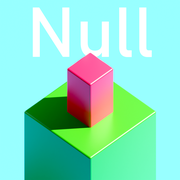
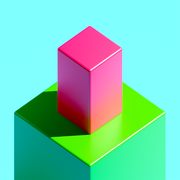
v1 of new endscreen and added new appicon

diff --git a/www/js/index.js b/www/js/index.js
@@ -1589,6 +1589,10 @@ const UserInterface = {
 
 
                 if (Tutorial.isActive) { // leaving tutorial level
+                    if (Tutorial.state >= 18) {
+                        btn_playTutorial.released(true) // toggle tutorial button to be false after completing it
+                    }
+
                     Tutorial.reset()
                 }
 
@@ -2081,6 +2085,27 @@ const UserInterface = {
         return minutes + ":" + extraSeconds;
     },
 
+    drawMedal: function(x, y, radius, fillColor, strokeColor, strokeWidth, shadow) {
+                        
+        canvasArea.ctx.fillStyle = fillColor
+        canvasArea.ctx.strokeStyle = strokeColor
+        canvasArea.ctx.lineWidth = strokeWidth
+        
+        canvasArea.ctx.beginPath()
+        canvasArea.ctx.arc(x, y, radius, 0, 2 * Math.PI); // (x, y, radius, startAngle, endAngle)
+        canvasArea.ctx.closePath()
+        
+        canvasArea.ctx.fill()
+        
+        canvasArea.ctx.save(); // save 3.1
+        if (shadow) {
+            canvasArea.ctx.shadowColor = "rgba(0, 0, 0, 0.3)"; 
+            canvasArea.ctx.shadowBlur = 20;
+        }
+        canvasArea.ctx.stroke()
+        canvasArea.ctx.restore() // save 3.1
+    },
+
     getOrdinalSuffix: function (i) { // turns 1 into 1st, 2 into 2nd
         let j = i % 10,
             k = i % 100;
@@ -2479,125 +2504,104 @@ const UserInterface = {
 
             // ENDSCREEN
             if (player.endSlow == 0) { // level name, your time, record, leaderboards
-
-
+        
                 // TIME BOX
                 const timeBox = {
-                    x : midX - (this.leaderboards[Map.name] !== undefined ? 332 - 40 : 217 - 40),
-                    y : midY - 120,
-                    width : 434,
-                    height : 268,
+                    x : midX - (this.leaderboards[Map.name] !== undefined ? 310: 220),
+                    y : midY - (Tutorial.isActive ? 118: 140),
+                    width : 430,
+                    height : 280,
                 }
 
-                // MAP NAME BOX
-                canvasArea.ctx.font = "30px BAHNSCHRIFT";
-                const nameBox = {
-                    x : timeBox.x - 30,
-                    y : timeBox.y - 30,
-                    width : 36 + canvasArea.ctx.measureText(Map.name).width , // change to match map name
-                    height : 60,
-                }
-
-
-                // 30px between timeBox and medalsBox
+                // 20px between timeBox and medalsBox
 
                 // MEDALS BOX
                 const medalsBox = {
-                    x : timeBox.x + timeBox.width + 30,
+                    x : timeBox.x + timeBox.width + 20,
                     y : timeBox.y,
-                    width : 200,
+                    width : 220,
                     height : timeBox.height,
                 }
 
+                // HIGHLIGHT MEDAL BOX
+                const highlightBox = {
+                    x : medalsBox.x + 15,
+                    y : null, // set later
+                    width : medalsBox.width - 30,
+                    height : 74,
+                }
+                
+ 
                 // DRAW BOXES
                 canvasArea.ctx.fillStyle = (UserInterface.darkMode) ? UserInterface.darkColor_1 : UserInterface.lightColor_1;
-
+                canvasArea.ctx.strokeStyle = (!UserInterface.darkMode) ? UserInterface.darkColor_1 : UserInterface.lightColor_1;
+                
                 canvasArea.ctx.save(); // save 3
 
-                canvasArea.ctx.shadowColor = "rgba(0, 0, 0, 0.4)"; 
+                canvasArea.ctx.shadowColor = "rgba(0, 0, 0, 0.3)"; 
                 canvasArea.ctx.shadowBlur = 30;
 
                 // time box
-                canvasArea.roundedRect(timeBox.x, timeBox.y, timeBox.width, timeBox.height, 25)
-                canvasArea.ctx.fill();
-
-                // name box
-                canvasArea.roundedRect(nameBox.x, nameBox.y, nameBox.width, nameBox.height, 18)
+                canvasArea.roundedRect(timeBox.x, timeBox.y, timeBox.width, timeBox.height, 20)
                 canvasArea.ctx.fill();
 
                 // medals box
                 if (this.leaderboards[Map.name] !== undefined) {
-                    canvasArea.roundedRect(medalsBox.x, medalsBox.y, medalsBox.width, medalsBox.height, 25)
+                    canvasArea.roundedRect(medalsBox.x, medalsBox.y, medalsBox.width, medalsBox.height, 20)
                     canvasArea.ctx.fill();
+
+                    // set hightlight box y and draw it
+                    if (UserInterface.timer <= this.leaderboards[Map.name].gold) {
+                        highlightBox.y = medalsBox.y + 65 - 37
+                    } else if (UserInterface.timer <= this.leaderboards[Map.name].silver) {
+                        highlightBox.y = medalsBox.y + medalsBox.height/2 - 37
+                    } else if (UserInterface.timer <= this.leaderboards[Map.name].bronze) {
+                        highlightBox.y = medalsBox.y + medalsBox.height - 65 - 37
+                    }
+                    
+                    if (highlightBox.y !== null) {
+                        canvasArea.roundedRect(highlightBox.x, highlightBox.y, highlightBox.width, highlightBox.height, 15)
+                        canvasArea.ctx.fill();
+                        canvasArea.ctx.lineWidth = 4
+                        canvasArea.ctx.stroke()
+                    }
                 }
 
                 canvasArea.ctx.restore(); // restore 3
                 
-
-
+                
                 // END SCREEN TEXT
                 canvasArea.ctx.fillStyle = (!UserInterface.darkMode) ? UserInterface.darkColor_1 : UserInterface.lightColor_1;
                 
                 // map name
-                canvasArea.ctx.font = "30px BAHNSCHRIFT";
-                canvasArea.ctx.fillText(Map.name, nameBox.x + 18, nameBox.y + nameBox.height/2 + 10);
+                canvasArea.ctx.font = "38px BAHNSCHRIFT";
+                canvasArea.ctx.fillText(Map.name, timeBox.x + 40, timeBox.y + 65);
                 
                 // time
-                canvasArea.ctx.font = "62px BAHNSCHRIFT";
-                canvasArea.ctx.fillText(UserInterface.secondsToMinutes(UserInterface.timer), timeBox.x + 40, timeBox.y + timeBox.height/2 - 10);
-
+                canvasArea.ctx.font = "90px BAHNSCHRIFT";
+                canvasArea.ctx.fillText(UserInterface.secondsToMinutes(UserInterface.timer), timeBox.x + 40 - 5, timeBox.y + timeBox.height/2 + 32);
+                
                 // record OR new record
                 canvasArea.ctx.font = "30px BAHNSCHRIFT";
                 if (this.timer == this.records[Map.name]) {
-                    // canvasArea.ctx.fillText("New Record! " + UserInterface.secondsToMinutes(this.records[Map.name]), timeBox.x + 40, timeBox.y + timeBox.height * 0.75);
-                    canvasArea.ctx.fillText("New Record!", timeBox.x + 40, timeBox.y + timeBox.height * 0.75);
-
+                    canvasArea.ctx.fillText("New Record!", timeBox.x + 40, timeBox.y + timeBox.height - 40);
+                    
                 } else {
-                    canvasArea.ctx.fillText("Best Time: " + UserInterface.secondsToMinutes(this.records[Map.name]), timeBox.x + 40, timeBox.y + timeBox.height * 0.75);
+                    canvasArea.ctx.fillText("Best Time: " + UserInterface.secondsToMinutes(this.records[Map.name]), timeBox.x + 40, timeBox.y + timeBox.height - 40);
                 }
-
+                
                 // medal times
                 if (this.leaderboards[Map.name] !== undefined) {
-                    canvasArea.ctx.fillText(UserInterface.secondsToMinutes(this.leaderboards[Map.name].gold), medalsBox.x + 70, medalsBox.y + medalsBox.height * 0.25 + 10);
-                    canvasArea.ctx.fillText(UserInterface.secondsToMinutes(this.leaderboards[Map.name].silver), medalsBox.x + 70, medalsBox.y + medalsBox.height * 0.5 + 10);
-                    canvasArea.ctx.fillText(UserInterface.secondsToMinutes(this.leaderboards[Map.name].bronze), medalsBox.x + 70, medalsBox.y + medalsBox.height * 0.75 + 10);            
-                
-                
-                    function drawMedal(x, y, radius, fillColor, strokeColor, strokeWidth, shadow) {
-
-                        canvasArea.ctx.fillStyle = fillColor
-                        canvasArea.ctx.strokeStyle = strokeColor
-                        canvasArea.ctx.lineWidth = strokeWidth
-    
-                        canvasArea.ctx.beginPath()
-                        canvasArea.ctx.arc(x, y, radius, 0, 2 * Math.PI); // (x, y, radius, startAngle, endAngle)
-    
-                        canvasArea.ctx.fill()
-    
-                        canvasArea.ctx.save(); // save 3.1
-                        if (shadow) {
-                            canvasArea.ctx.shadowColor = "rgba(0, 0, 0, 0.3)"; 
-                            canvasArea.ctx.shadowBlur = 20;
-                        }
-                        canvasArea.ctx.stroke()
+                    canvasArea.ctx.fillText(UserInterface.secondsToMinutes(this.leaderboards[Map.name].gold), medalsBox.x + 80, medalsBox.y + 75 );
+                    canvasArea.ctx.fillText(UserInterface.secondsToMinutes(this.leaderboards[Map.name].silver), medalsBox.x + 80, medalsBox.y + medalsBox.height * 0.5 + 10);
+                    canvasArea.ctx.fillText(UserInterface.secondsToMinutes(this.leaderboards[Map.name].bronze), medalsBox.x + 80, medalsBox.y + medalsBox.height - 55 );            
+                                            
                         
-                        canvasArea.ctx.restore() // save 3.1
-                    }
-
-                    // DRAW BIG MEDALS
-                    if (UserInterface.timer <= this.leaderboards[Map.name].gold) {
-                        drawMedal(timeBox.x + 350, timeBox.y + 100, 50, "#f1b62c", "#fde320", 10, true)
-                    } else if (UserInterface.timer <= this.leaderboards[Map.name].silver) {
-                        drawMedal(timeBox.x + 350, timeBox.y + 100, 50, "#8c9a9b", "#d4d4d6", 10, true)
-                    } else if (UserInterface.timer <= this.leaderboards[Map.name].bronze) {
-                        drawMedal(timeBox.x + 350, timeBox.y + 100, 50, "#e78b4c", "#f4a46f", 10, true)
-                    }
-
                     // DRAW 3 small MEDALS
-                    drawMedal(medalsBox.x + 35, medalsBox.y + medalsBox.height * 0.25, 15, "#f1b62c", "#fde320", 4, false)
-                    drawMedal(medalsBox.x + 35, medalsBox.y + medalsBox.height * 0.5, 15, "#8c9a9b", "#d4d4d6", 4, false)
-                    drawMedal(medalsBox.x + 35, medalsBox.y + medalsBox.height * 0.75, 15, "#e78b4c", "#f4a46f", 4, false)
-            
+                    this.drawMedal(medalsBox.x + 50, medalsBox.y + 75 - 10, 15, "#f1b62c", "#fde320", 4, false)
+                    this.drawMedal(medalsBox.x + 50, medalsBox.y + medalsBox.height * 0.5, 15, "#8c9a9b", "#d4d4d6", 4, false)
+                    this.drawMedal(medalsBox.x + 50, medalsBox.y + medalsBox.height - 55 - 10, 15, "#e78b4c", "#f4a46f", 4, false)
+                    
                 }
             }
         }
@@ -2998,16 +3002,18 @@ const Tutorial = {
         }
 
         if (!this.timerStarted && this.state == 6) { // timer to jump for 2 seconds
-            this.timeoutToCancel = setTimeout(() => {this.timerStarted = false; this.state ++; this.pausePlayer = true}, 2000);
+            this.timeoutToCancel = setTimeout(() => {
+                this.timerStarted = false;
+                this.state ++;
+                this.pausePlayer = true
+                UserInterface.renderedButtons = UserInterface.btnGroup_inLevel.concat(btn_next)
+            }, 2000);
             this.timerStarted = true;
         }
 
-        if (!this.timerStarted && ( this.state == 7 || this.state == 18 )) {
-            this.timeoutToCancel = setTimeout(() => {UserInterface.renderedButtons = UserInterface.renderedButtons.concat(btn_next)}, 1500);
-            this.timerStarted = true;
-        }
+        // state 7 has no wait timer on btn_next
 
-        if (this.state == 8 || this.state == 10 || this.state == 12 || this.state == 14 || this.state == 16) { // wait for a second then allow player to progess by swiping
+        if (this.state == 8 || this.state == 10 || this.state == 12 || this.state == 14 || this.state == 16) { // wait for a bit then allow player to progess by swiping
             if (!this.timerStarted && !this.timerCompleted) {
                 this.timeoutToCancel = setTimeout(() => {this.timerStarted = false; this.timerCompleted = true}, 800);
                 this.timerStarted = true;
@@ -3048,13 +3054,14 @@ const Tutorial = {
         // 16 bundled w 8
 
         if (this.state == 17) { // check if ended level
-            if (UserInterface.levelState == 3) {
+            if (UserInterface.levelState == 3 && player.endSlow == 0) {
                 this.state ++; 
-                btn_playTutorial.released(true) // toggle tutorial button to be false after completing it
+                UserInterface.renderedButtons = UserInterface.btnGroup_inLevel.concat(btn_next)
             }
         }
 
-        // 18 bundled w 7
+        // state 18 has no wait timer on btn_next
+
     },
 
 
@@ -3248,10 +3255,7 @@ const Tutorial = {
 
 
         if (this.state == 18) {
-            drawTextPanel("Finish levels faster to climb the leaderboards")
-
-            // arrow to leaderboard??
-
+            drawTextPanel("Finish levels faster to earn medals")
             pulseNextButton()
         }
 
